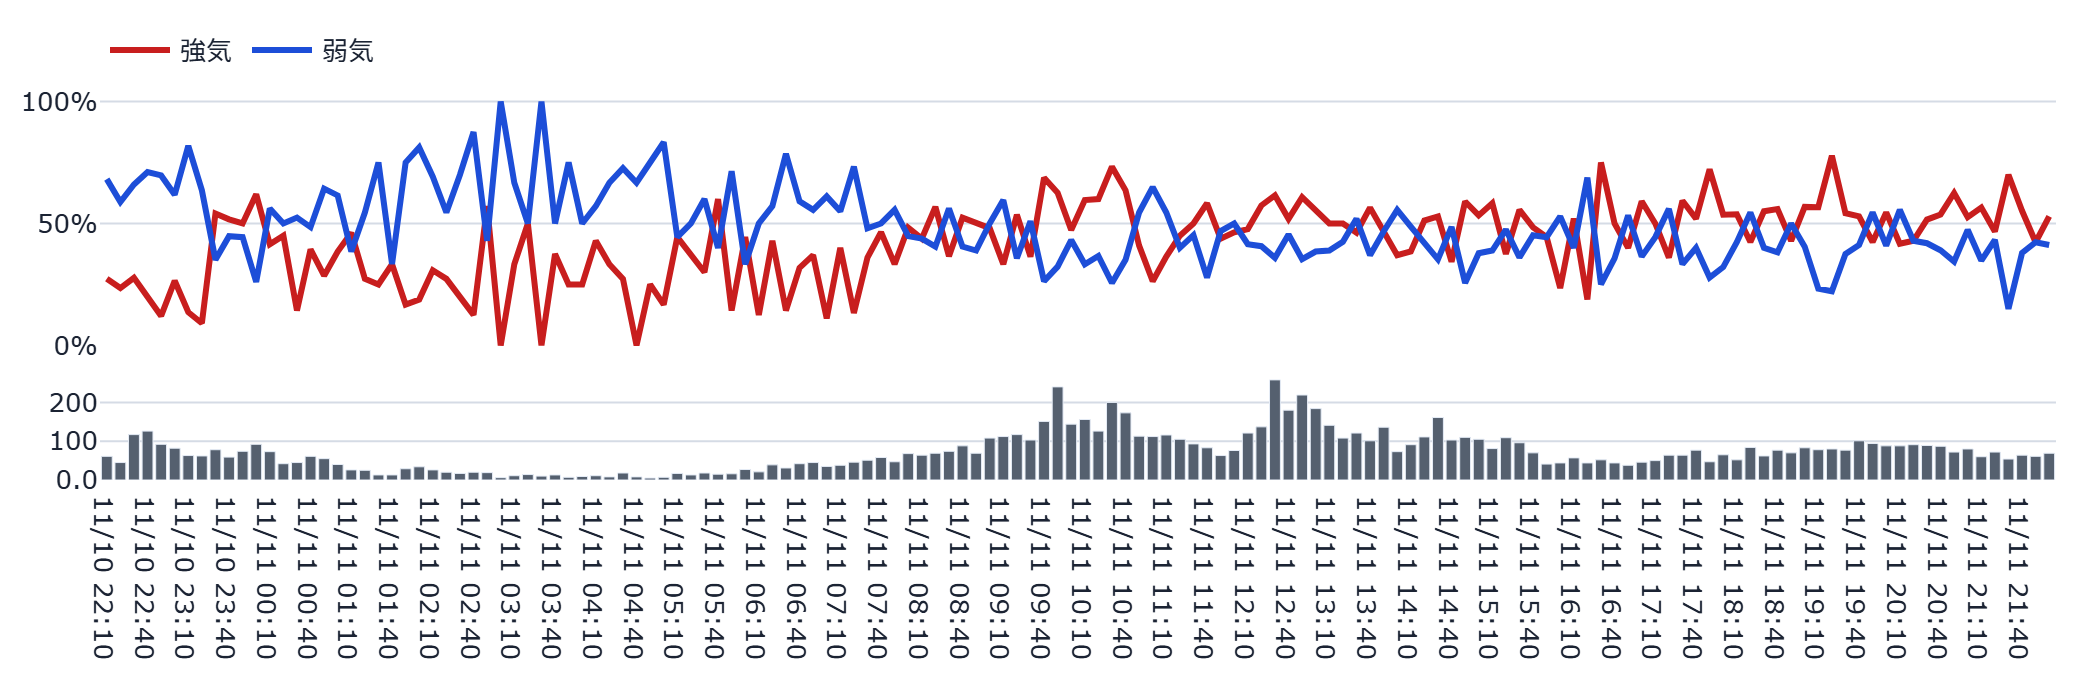
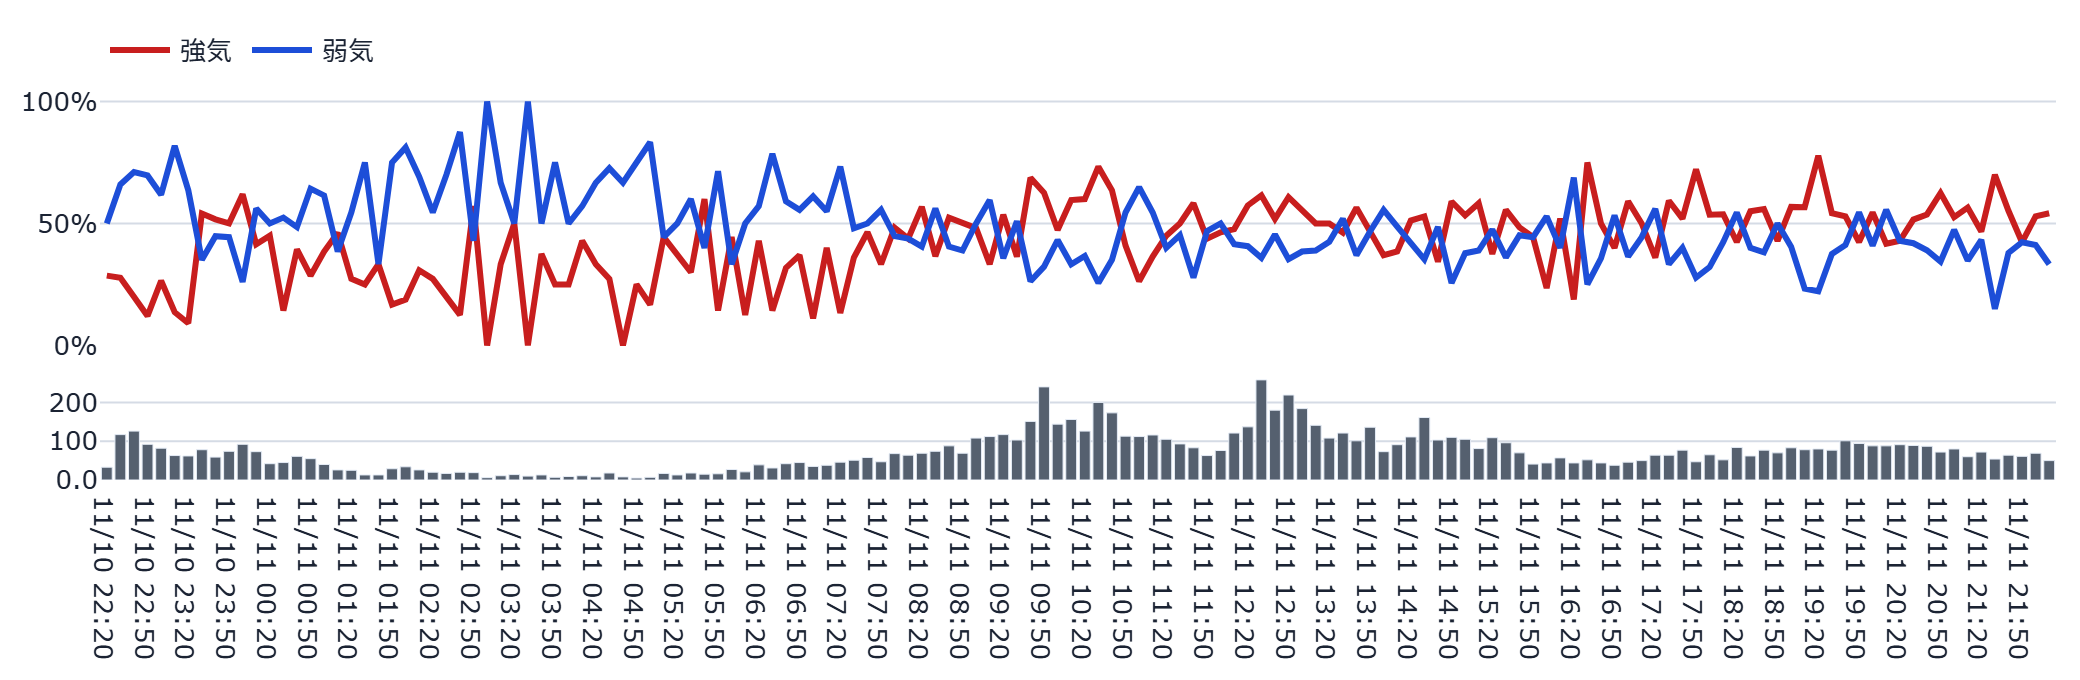
auto: refresh static dashboard (2026-11-11 22:28:05 JST)

diff --git a/docs/index.html b/docs/index.html
@@ -144,10 +144,10 @@
         <span class="price">9,571円</span>
         <span class="chg" style="color:#C81E1E">+5.55%</span>
       </div>
-      <p class="caption">更新時刻: 2026-11-11T22:11:54（データは1分間隔で自動生成され、このページも
+      <p class="caption">更新時刻: 2026-11-11T22:21:38（データは1分間隔で自動生成され、このページも
       60秒毎に自動再読み込みされます）</p>
       
-      <p id='visit-count-badge' class='caption'>👀 累計閲覧数: 13,268</p>
+      <p id='visit-count-badge' class='caption'>👀 累計閲覧数: 13,270</p>
       <p id='like-button-wrap' class='caption'><button id='like-button' type='button' style='cursor:pointer;border:1px solid var(--border);border-radius:6px;padding:1px 10px;margin-right:6px;background:var(--panel);color:var(--text);font-size:1em;vertical-align:middle'>👍</button><span id='like-count-label'>このダッシュボードが役に立ったら押してください（累計 4 いいね）</span></p>
 
       <!-- ★2026-09-08追加(ユーザー指示「AI考察はトップに移動」): モニタ
@@ -155,9 +155,9 @@
            常時最上部に表示する。 -->
       <h2>🤖 AI考察</h2>
       <div class='panel' id='ai-schedule'><h3>🗓 AI考察の予定</h3><ul><li>平日の立会日に、寄り前 08:50／寄り直後 09:10／前場引け前 11:30／大引け後 15:45 の4時点で考察を更新します（考察はClaude(AI)が書きます）。</li><li>土日祝などの休場日は考察を書きません。</li><li>時点の間は、数値のみを約10分ごとに更新します（文章は次の時点まで更新されません）。</li><li>次の予定: 11-12 08:50（寄り前）／直近の更新: 11-11 16:36（自動生成）</li></ul></div>
-      <div class='panel' id='numeric-summary'><h3>📊 数値要約｜22:11 更新</h3><ul><li>株価: 9,571円（前営業日終値比 +5.55%）</li><li>掲示板: 強気 49.3%／弱気 43.4%／中立 7.3%・投稿 9,541件（約415件/時）</li><li>シグナル: 警戒＝他銘柄混入率(0.1)・話題枯れ(-0.63)／平常＝灼熱メーター(過熱)(20.9)・そう思う大量票(64)・イナゴ語彙(euphoria)(2.6)・ネームド集中(0.04)ほか</li><li>11/11 15:30時点｜買い総量 805.8万株／売り総量 640.2万株／比 1.26／差 +165.5万株</li><li>直近30秒: 買い +499.7万株(増加)／売り +489.3万株(増加)</li><li>直近1分: 買い +499.7万株(増加)／売り +489.3万株(増加)</li><li>直近3分: 買い +499.7万株(増加)／売り +489.3万株(増加)</li><li>直近5分: 買い +499.7万株(増加)／売り +489.3万株(増加)</li><li>11/11 15:30時点｜現在値 9,571円／VWAP 9,360.6円（距離 +210.4円・+2.25%）</li><li>出来高 14,032.3万株／売買代金(試算) 13,135.1億円／日中高値 9,777円・安値 8,771円</li><li>変化点: 前回の数値要約から大きな変化なし</li></ul><p class='caption'>強気・弱気は機械判定（辞書＋軽量モデル）の値です。日単位の向きはLM判定と近く（相関0.8台）、時間単位は粗い点に注意してください。</p></div>
+      <div class='panel' id='numeric-summary'><h3>📊 数値要約｜22:21 更新</h3><ul><li>株価: 9,571円（前営業日終値比 +5.55%）</li><li>掲示板: 強気 49.3%／弱気 43.3%／中立 7.4%・投稿 9,591件（約417件/時）</li><li>シグナル: 警戒＝他銘柄混入率(0.1)・話題枯れ(-0.63)／平常＝灼熱メーター(過熱)(20.9)・そう思う大量票(64)・イナゴ語彙(euphoria)(2.6)・ネームド集中(0.04)ほか</li><li>11/11 15:30時点｜買い総量 805.8万株／売り総量 640.2万株／比 1.26／差 +165.5万株</li><li>直近30秒: 買い +499.7万株(増加)／売り +489.3万株(増加)</li><li>直近1分: 買い +499.7万株(増加)／売り +489.3万株(増加)</li><li>直近3分: 買い +499.7万株(増加)／売り +489.3万株(増加)</li><li>直近5分: 買い +499.7万株(増加)／売り +489.3万株(増加)</li><li>11/11 15:30時点｜現在値 9,571円／VWAP 9,360.6円（距離 +210.4円・+2.25%）</li><li>出来高 14,032.3万株／売買代金(試算) 13,135.1億円／日中高値 9,777円・安値 8,771円</li><li>変化点: 前回の数値要約から大きな変化なし</li></ul><p class='caption'>強気・弱気は機械判定（辞書＋軽量モデル）の値です。日単位の向きはLM判定と近く（相関0.8台）、時間単位は粗い点に注意してください。</p></div>
       <div class='panel' id='screen-extras'><h3>🧭 板・価格まわり・見立ての採点（参考）</h3><ul><li>11/11 15:30時点｜買い総量 805.8万株／売り総量 640.2万株／比 1.26／差 +165.5万株</li><li>直近30秒: 買い +499.7万株(増加)／売り +489.3万株(増加)</li><li>直近1分: 買い +499.7万株(増加)／売り +489.3万株(増加)</li><li>直近3分: 買い +499.7万株(増加)／売り +489.3万株(増加)</li><li>直近5分: 買い +499.7万株(増加)／売り +489.3万株(増加)</li><li>11/11 15:30時点｜現在値 9,571円／VWAP 9,360.6円（距離 +210.4円・+2.25%）</li><li>出来高 14,032.3万株／売買代金(試算) 13,135.1億円／日中高値 9,777円・安値 8,771円</li></ul><p class='caption'>板情報・約定ティック(遅延あり)から作成。売買代金は試算(VWAP×出来高)。見立ての採点は参考・機械採点で、売買の推奨ではありません。</p></div>
-      <div class='metric-row'><div class='metric-card'><div class='metric-label'>株価</div><div class='metric-value'>9,571円</div><div class='metric-delta'>+0円</div></div><div class='metric-card'><div class='metric-label'>強気比率</div><div class='metric-value'>49.3%</div><div class='metric-delta'>+0.0pt</div></div><div class='metric-card'><div class='metric-label'>弱気比率</div><div class='metric-value'>43.4%</div><div class='metric-delta'>+0.0pt</div></div></div><p class='caption'>前回集計(2026-11-11T22:01:17)との比較</p>
+      <div class='metric-row'><div class='metric-card'><div class='metric-label'>株価</div><div class='metric-value'>9,571円</div><div class='metric-delta'>+0円</div></div><div class='metric-card'><div class='metric-label'>強気比率</div><div class='metric-value'>49.3%</div><div class='metric-delta'>+0.0pt</div></div><div class='metric-card'><div class='metric-label'>弱気比率</div><div class='metric-value'>43.3%</div><div class='metric-delta'>-0.1pt</div></div></div><p class='caption'>前回集計(2026-11-11T22:11:54)との比較</p>
       <div class='ai-box'>※無料公開データを機械的に集計した観測情報であり、投資助言・売買推奨ではありません。（11-11 大引け後の整理・16:35時点）<br>
 <br>
 ■ 本日の285A<br>
@@ -206,7 +206,7 @@
             <h3>ボラ・レジーム帯</h3>
             <figure><img src='images/regime_band.png' alt='ボラ・レジーム帯' loading='lazy'></figure>
             <p class='caption'>現在レジーム: 較正中　(BVP=0.394)</p>
-            <div class='metric-row'><div class='metric-card'><div class='metric-label'>PTS（11/11 22:15）</div><div class='metric-value'>9,835円</div><div class='metric-delta' style='color:#C81E1E'>+2.76%</div></div><div class='metric-card'><div class='metric-label'>DEX（11/11 22:10）</div><div class='metric-value'>9,829円</div><div class='metric-delta' style='color:#C81E1E'>+2.70%</div></div></div><p class='caption'>PTS=東証取引時間外の私設取引システム／ADR=米国預託証券／DEX=分散型取引所(Hyperliquid)の24時間取引・円換算(東証終値比)。翌営業日の値動きの参考情報です(それ自体が売買シグナルではありません)。</p>
+            <div class='metric-row'><div class='metric-card'><div class='metric-label'>PTS（11/11 22:24）</div><div class='metric-value'>9,850円</div><div class='metric-delta' style='color:#C81E1E'>+2.92%</div></div><div class='metric-card'><div class='metric-label'>DEX（11/11 22:20）</div><div class='metric-value'>9,852円</div><div class='metric-delta' style='color:#C81E1E'>+2.93%</div></div></div><p class='caption'>PTS=東証取引時間外の私設取引システム／ADR=米国預託証券／DEX=分散型取引所(Hyperliquid)の24時間取引・円換算(東証終値比)。翌営業日の値動きの参考情報です(それ自体が売買シグナルではありません)。</p>
           </div>
         </div>
 
@@ -290,7 +290,7 @@
 
       <hr style="border:none;border-top:1px solid var(--border);margin:2rem 0 1rem">
       <p class="caption">⚠ 本情報は掲示板投稿を統計的に集計したものであり、投資助言ではありません。個別の投稿内容は含まれていません。研究・エンタメ用途です。</p>
-      <footer>生成: generate_static_dashboard.py（2026-11-11T22:17:59） /
+      <footer>生成: generate_static_dashboard.py（2026-11-11T22:27:59） /
       画像バックエンド: plotly+kaleido</footer>
     </div>
     <script>(function(){var url="https://script.google.com/macros/s/AKfycbwgSSGQ2n56ohmIYKlNDA1Xe3D8hd3GJbD0U90L4DGtXdb8pqrPokNMHJWjvN1__7bE/exec";var KEY='bbs_visit_counted';var already=sessionStorage.getItem(KEY);var action=already?'read':'hit';var ctrl=(typeof AbortController!=='undefined')?new AbortController():null;var timer=ctrl?setTimeout(function(){ctrl.abort();},5000):null;fetch(url+'?action='+action,{signal:ctrl?ctrl.signal:undefined}).then(function(r){if(timer)clearTimeout(timer);return r.json();}).then(function(data){if(!already)sessionStorage.setItem(KEY,'1');if(data&&typeof data.count==='number'){var el=document.getElementById('visit-count-badge');if(el){el.textContent='\u{1F440} \u7d2f\u8a08\u95b2\u89a7\u6570: '+data.count.toLocaleString();el.style.display='';}}}).catch(function(e){if(timer)clearTimeout(timer);console.warn('visit counter fetch failed (fail-soft):',e);});})();</script><script>(function(){var url="https://script.google.com/macros/s/AKfycbwgSSGQ2n56ohmIYKlNDA1Xe3D8hd3GJbD0U90L4DGtXdb8pqrPokNMHJWjvN1__7bE/exec";var KEY='bbs_liked';var btn=document.getElementById('like-button');var label=document.getElementById('like-count-label');if(!btn||!label)return;function renderLiked(count){btn.disabled=true;btn.style.cursor='default';btn.style.opacity='0.6';btn.textContent='\u2705';label.textContent="\u3044\u3044\u306d\u3057\u307e\u3057\u305f\uff01"+(typeof count==='number'?"\uff08\u7d2f\u8a08 "+count.toLocaleString()+" \u3044\u3044\u306d\uff09":'');}if(localStorage.getItem(KEY)){renderLiked(null);}btn.addEventListener('click',function(){if(localStorage.getItem(KEY))return;btn.disabled=true;var ctrl=(typeof AbortController!=='undefined')?new AbortController():null;var timer=ctrl?setTimeout(function(){ctrl.abort();},5000):null;fetch(url+'?action=like_hit',{signal:ctrl?ctrl.signal:undefined}).then(function(r){if(timer)clearTimeout(timer);return r.json();}).then(function(data){localStorage.setItem(KEY,'1');renderLiked(data&&typeof data.count==='number'?data.count:null);}).catch(function(e){if(timer)clearTimeout(timer);btn.disabled=false;console.warn('like button fetch failed (fail-soft):',e);});});})();</script><script>(function(){var DEFAULT_TAB='overview';function activate(tabName){var buttons=document.querySelectorAll('.tab-bar .tab-btn');var panels=document.querySelectorAll('[data-tab-panel]');if(!buttons.length||!panels.length)return;var matched=false;panels.forEach(function(p){var on=p.getAttribute('data-tab-panel')===tabName;if(on)matched=true;p.classList.toggle('tab-hidden',!on);});if(!matched){panels.forEach(function(p){p.classList.toggle('tab-hidden',p.getAttribute('data-tab-panel')!==DEFAULT_TAB);});tabName=DEFAULT_TAB;}buttons.forEach(function(b){var on=b.getAttribute('data-tab')===tabName;b.classList.toggle('active',on);b.setAttribute('aria-selected',on?'true':'false');});}document.addEventListener('DOMContentLoaded',function(){var bar=document.getElementById('tabBar');if(!bar)return;bar.addEventListener('click',function(e){var btn=e.target.closest('.tab-btn');if(!btn)return;activate(btn.getAttribute('data-tab'));});activate(DEFAULT_TAB);});})();</script></body></html>
